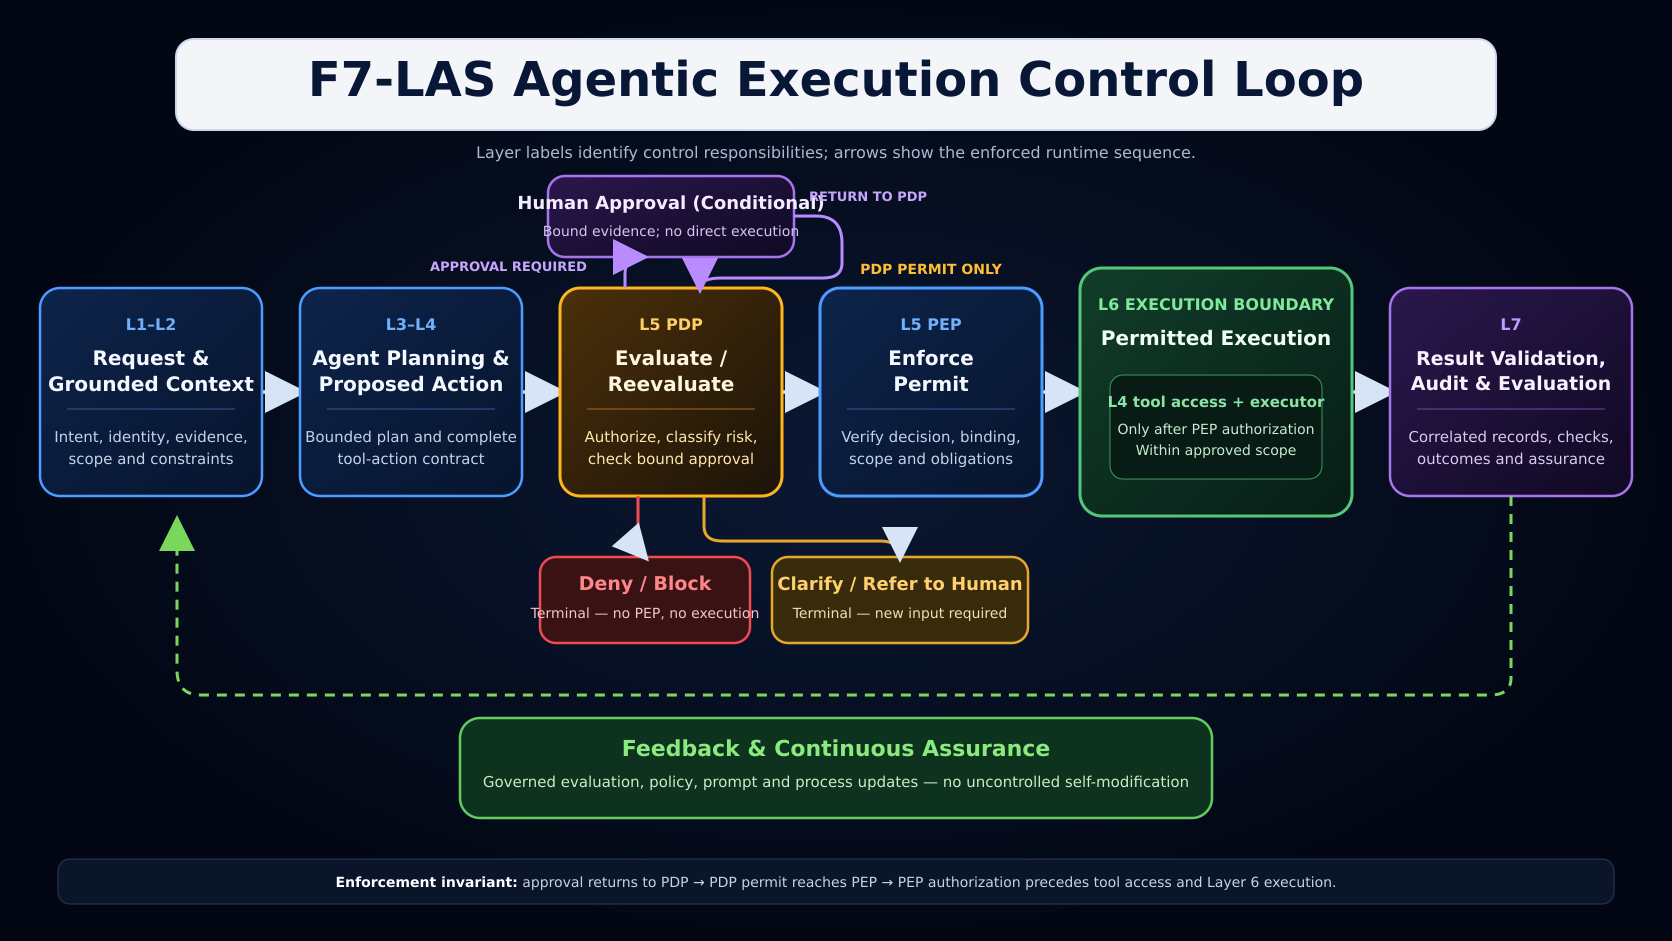
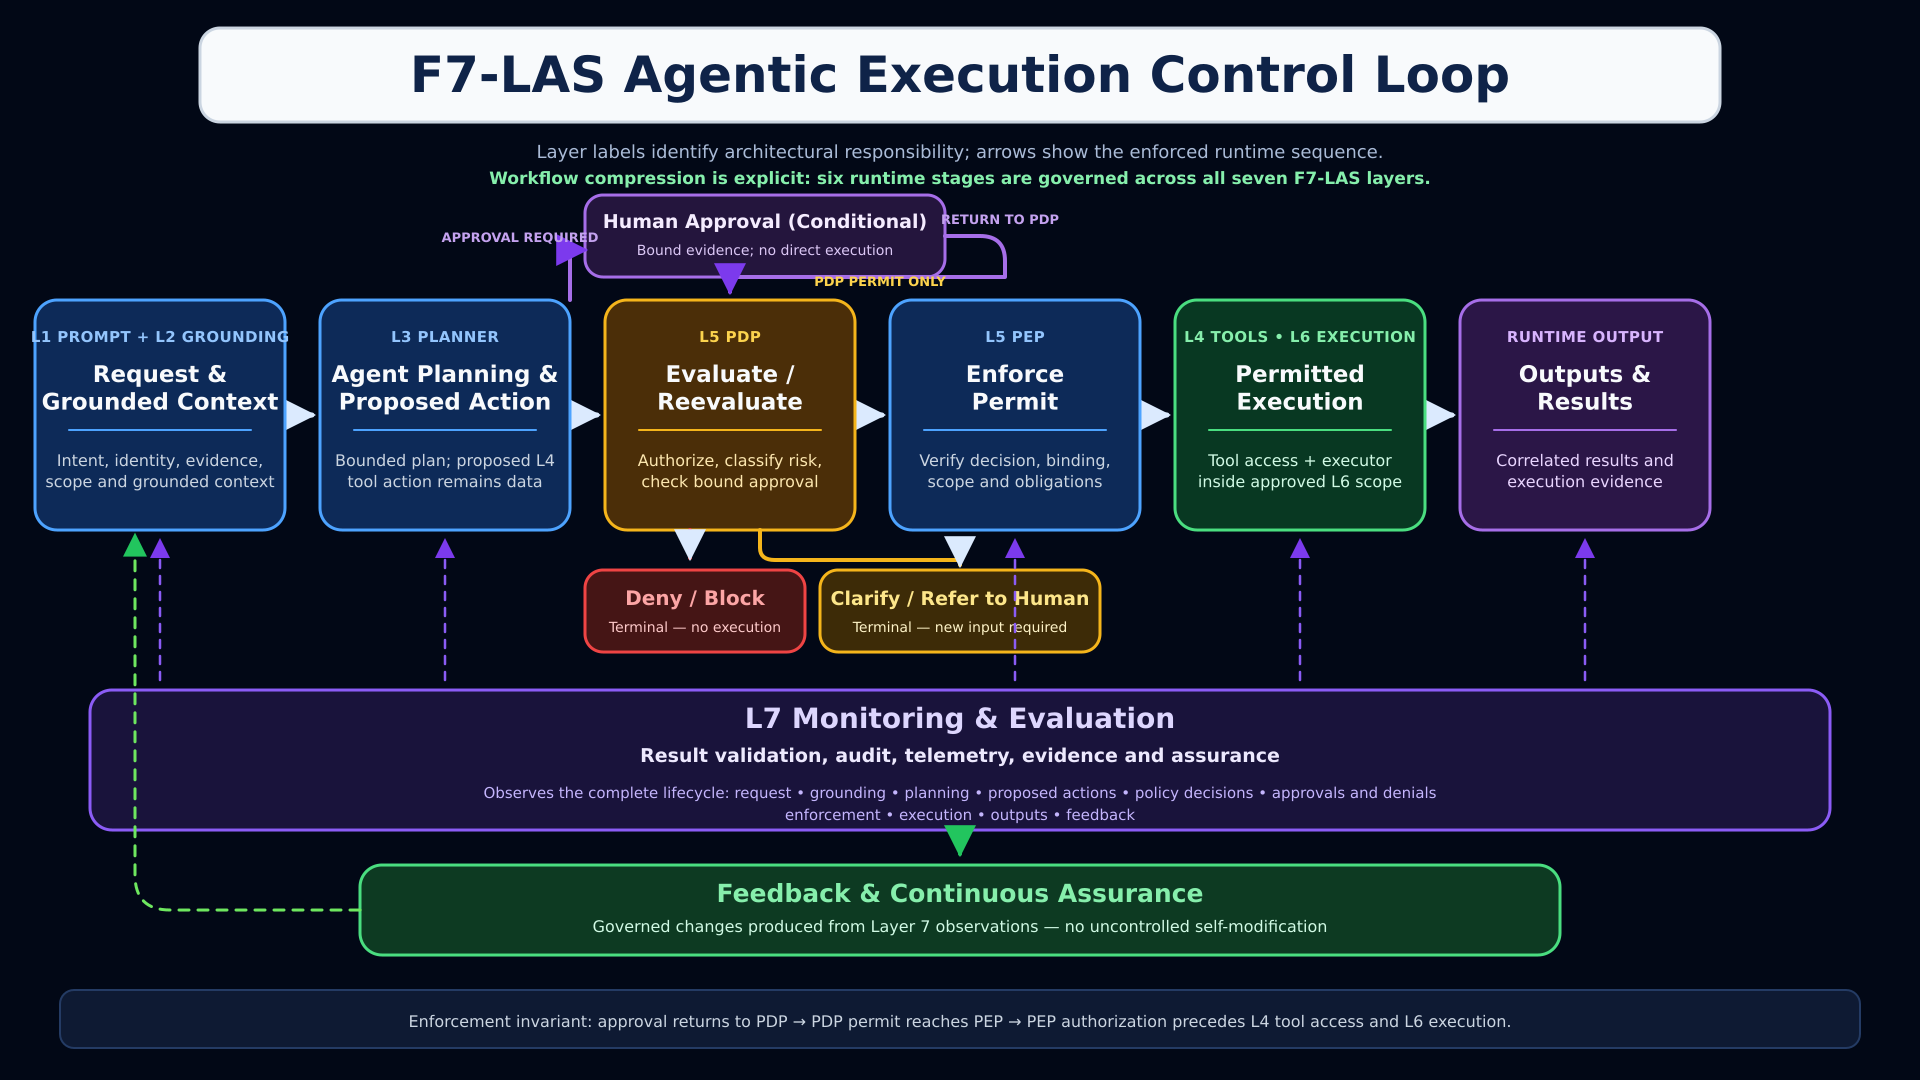
Correct control-loop layer semantics

diff --git a/scripts/validate-documentation.py b/scripts/validate-documentation.py
@@ -25,12 +25,26 @@ RUNNABLE_COMMAND_DOCS = {
 IGNORED_DIRECTORIES = {".git", ".venv", "venv", "node_modules", "__pycache__"}
 EXPECTED_DIAGRAMS = {
     Path("docs/images/F7-LAS-Executive-Control-Loop.png"): (
[1 lines of base64/hex data omitted]
-        (1672, 941),
[1 lines of base64/hex data omitted]
+        (1920, 1080),
     ),
     Path("docs/images/F7-LAS-Agentic-Execution-Control-Loop.png"): (
[1 lines of base64/hex data omitted]
-        (1672, 941),
[1 lines of base64/hex data omitted]
+        (1920, 1080),
+    ),
+}
+REQUIRED_DIAGRAM_ALT_TEXT = {
+    Path("docs/images/F7-LAS-Executive-Control-Loop.png"): (
+        "F7-LAS executive control loop showing six numbered runtime stages "
+        "governed across all seven layers, conditional human approval, PDP and "
+        "PEP gates, scoped execution, lifecycle-wide Layer 7 monitoring and "
+        "governed feedback"
+    ),
+    Path("docs/images/F7-LAS-Agentic-Execution-Control-Loop.png"): (
+        "F7-LAS technical execution control loop showing all seven "
+        "responsibility layers, permit-only PDP-to-PEP routing, Layer 4 tool "
+        "access inside the Layer 6 boundary, lifecycle-wide Layer 7 monitoring "
+        "and evaluation, and governed feedback"
     ),
 }
 RETIRED_DIAGRAMS = {
@@ -51,6 +65,13 @@ REQUIRED_DIAGRAM_NOTICES = {
     "PEP authorization occurs before tool access or execution",
     "distinct terminal outcomes",
     "Agent Planning",
+    "workflow compression",
+    "six-stage runtime flow governed across all seven F7-LAS layers",
+    "L7 Monitoring & Evaluation",
+    "result validation, audit, telemetry, evidence, and assurance",
+    "Layer 7 observes the complete lifecycle",
+    "governed feedback produced from Layer 7 observations",
+    "not an eighth layer",
 }
 EXPECTED_RELEASE_VERSION = "4.0.0"
 CURRENT_WHITEPAPER_PATH = Path("docs/whitepaper/F7-LAS-Whitepaper-v4.0.pdf")
@@ -207,6 +228,13 @@ def validate_diagrams(root: Path) -> None:
             raise DocumentationError(f"retired legacy diagram returned: {relative}")
 
     guide = (root / "docs" / "architecture-diagrams.md").read_text(encoding="utf-8")
+    for relative, alt_text in REQUIRED_DIAGRAM_ALT_TEXT.items():
+        guide_target = relative.relative_to("docs").as_posix()
+        expected_reference = f"![{alt_text}]({guide_target})"
+        if expected_reference not in guide:
+            raise DocumentationError(
+                f"architecture diagram guide is missing accessible alt text: {relative}"
+            )
     normalized_guide = " ".join(guide.split())
     for notice in REQUIRED_DIAGRAM_NOTICES:
         if notice not in normalized_guide:

diff --git a/tests/test_documentation.py b/tests/test_documentation.py
@@ -66,7 +66,7 @@ def test_substituted_canonical_diagram_is_rejected(tmp_path: Path) -> None:
             MODULE.EXPECTED_DIAGRAMS[
                 Path("docs/images/F7-LAS-Executive-Control-Loop.png")
             ][0],
-            (1672, 941),
+            (1920, 1080),
         )
 
 
@@ -155,8 +155,23 @@ def test_control_loop_semantics_are_required() -> None:
         "PEP authorization occurs before tool access or execution",
         "distinct terminal outcomes",
         "Agent Planning",
+        "workflow compression",
+        "six-stage runtime flow governed across all seven F7-LAS layers",
+        "L7 Monitoring & Evaluation",
+        "result validation, audit, telemetry, evidence, and assurance",
+        "Layer 7 observes the complete lifecycle",
+        "governed feedback produced from Layer 7 observations",
+        "not an eighth layer",
     }
     assert expected <= MODULE.REQUIRED_DIAGRAM_NOTICES
+
+
+def test_control_loop_accessible_alt_text_is_required() -> None:
+    assert set(MODULE.REQUIRED_DIAGRAM_ALT_TEXT) == set(MODULE.EXPECTED_DIAGRAMS)
+    assert all(
+        "Layer 7" in alt_text
+        for alt_text in MODULE.REQUIRED_DIAGRAM_ALT_TEXT.values()
+    )
 
 
 def test_clean_user_gate_rejects_substituted_opa(tmp_path: Path) -> None:

diff --git a/docs/architecture-diagrams.md b/docs/architecture-diagrams.md
@@ -6,28 +6,51 @@ implemented by this repository. The only executable path currently supported
 is the bounded synthetic workflow documented under
 [`examples/canonical-workflow/`](../examples/canonical-workflow/README.md).
 
+The diagrams preserve the seven distinct F7-LAS responsibility layers. To keep
+the enforced runtime sequence legible, they compress the handoffs into six
+workflow stages. This is workflow compression, not a merger or redefinition of
+the architectural layers.
+
 ## Executive control loop
 
-![F7-LAS executive control loop for agentic systems](images/F7-LAS-Executive-Control-Loop.png)
+![F7-LAS executive control loop showing six numbered runtime stages governed across all seven layers, conditional human approval, PDP and PEP gates, scoped execution, lifecycle-wide Layer 7 monitoring and governed feedback](images/F7-LAS-Executive-Control-Loop.png)
+
+[Open the full-resolution executive control-loop diagram](images/F7-LAS-Executive-Control-Loop.png)
 
 This view summarizes the governance path for an executive audience: mission
 context, an action proposal, policy decision, conditional human approval,
 enforcement, scoped execution, validation, monitoring, and governed feedback.
+Its numbered elements are runtime stages, not F7-LAS layer numbers: **six-stage
+runtime flow governed across all seven F7-LAS layers**.
+
 An approval-required outcome returns to the PDP for reevaluation. Only a PDP
 permit may proceed to PEP enforcement, and PEP authorization occurs before tool
 access or execution. Deny/block and clarify/refer-to-human are distinct terminal
-outcomes.
+outcomes. The lifecycle-wide **L7 Monitoring & Evaluation** band observes the
+complete flow, and the feedback band represents governed changes produced from
+Layer 7 observations.
 
 ## Layer-specific execution control loop
 
-![F7-LAS agentic execution control loop](images/F7-LAS-Agentic-Execution-Control-Loop.png)
+![F7-LAS technical execution control loop showing all seven responsibility layers, permit-only PDP-to-PEP routing, Layer 4 tool access inside the Layer 6 boundary, lifecycle-wide Layer 7 monitoring and evaluation, and governed feedback](images/F7-LAS-Agentic-Execution-Control-Loop.png)
+
+[Open the full-resolution technical control-loop diagram](images/F7-LAS-Agentic-Execution-Control-Loop.png)
 
 This view maps the same control loop to F7-LAS Layers 1–7. Layer numbers name
 responsibility domains; they do not require every runtime event to occur in
-numeric order. In particular, Layer 4 first defines a proposed tool action as
-data before Layer 5 authorization. Actual Layer 4 tool access may occur only
-after permit and successful PEP enforcement, within the applicable Layer 6
-execution boundary. Human approval never bypasses the PDP or PEP.
+numeric order. The six displayed runtime stages are workflow compression; they
+do not redefine or merge the seven architectural layers. In particular, Layer
+4 first defines a proposed tool action as data before Layer 5 authorization.
+Actual Layer 4 tool access may occur only after permit and successful PEP
+enforcement, within the applicable Layer 6 execution boundary. Human approval
+never bypasses the PDP or PEP.
+
+**L7 Monitoring & Evaluation** performs result validation, audit, telemetry,
+evidence, and assurance. Layer 7 observes the complete lifecycle: request,
+grounding, planning, proposed actions, policy decisions, approvals, denials,
+enforcement, execution, outputs, and feedback. **Feedback & Continuous
+Assurance** is governed feedback produced from Layer 7 observations. It is not
+an eighth layer and does not replace continuous monitoring.
 
 ## Canonical implementation alignment
 
@@ -39,8 +62,8 @@ execution boundary. Human approval never bypasses the PDP or PEP.
 | Conditional human approval | The canonical fixture creates deterministic synthetic approval evidence before the `policy_decision` record. It demonstrates binding and expiry enforcement, not an interactive approval service or verified human identity. |
 | PEP enforcement | Only a PDP permit reaches the PEP. The PEP verifies the decision and its action, approval, scope, policy, obligation, and expiry bindings before authorizing access. |
 | Scoped execution and tool access | Only after PEP authorization does the permit path enter the Layer 6 boundary and invoke one registered, synthetic, read-only in-process executor. It makes no network or external API call and independently rechecks the complete binding. |
-| Validation, monitoring, and evaluation | `execution_result` and `audit_event` records preserve the outcome; evidence verification and deterministic replay check their correlations and digests. This is not production telemetry or continuous monitoring. |
-| Feedback and continuous assurance | Test, review, policy, prompt, and process changes use the normal governed repository workflow. The implementation does not self-modify. |
+| Layer 7 monitoring and evaluation | `execution_result` and `audit_event` records preserve the outcome; evidence verification and deterministic replay check their correlations and digests. The diagram depicts lifecycle-wide monitoring, but this repository does not provide production telemetry or continuous monitoring. |
+| Feedback and continuous assurance | Test, review, policy, prompt, and process changes use the normal governed repository workflow. This governed feedback is produced from Layer 7 observations; it is not an eighth layer. The implementation does not self-modify. |
 
 The permit flow is therefore:
 
@@ -72,8 +95,8 @@ F7-LAS trademark rights or imply endorsement.
 
 | File | Dimensions | SHA-256 |
 |---|---:|---|
[4 lines of base64/hex data omitted]
 
 Legacy draft graphics were removed from the current documentation set because
 they contained ambiguous execution routing, private-reasoning terminology, or
